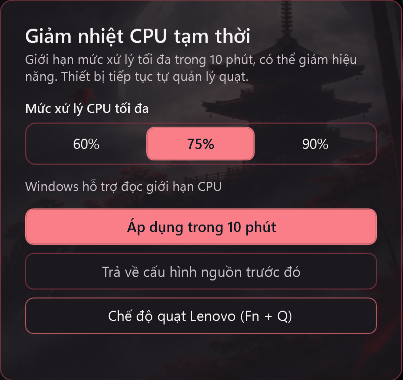
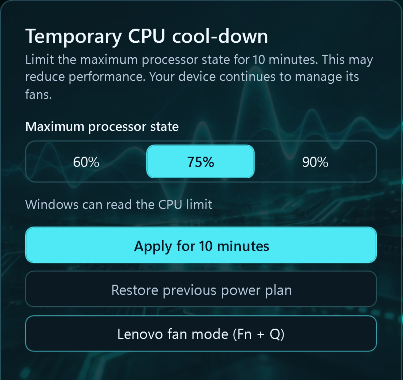
PERF 0.3.3: English UI and README screenshots

diff --git a/README.md b/README.md
@@ -1,7 +1,7 @@
-# PERF 0.3.2
+# PERF 0.3.3
 
 <p align="center">
-  <img src="docs/images/hero.jpg" alt="PERF with its five themes: PERF Classic, Galaxy, Astronaut, Ninja and Racing" width="100%">
+  <img src="docs/images/hero.jpg" alt="PERF with its five themes: PERF Classic, Cosmos, Astronaut, Shinobi and Night Racer" width="100%">
 </p>
 
 <p align="center">
@@ -13,6 +13,7 @@
 <p align="center">
   <a href="https://github.com/tuanphat67/PERF/releases/latest"><img src="https://img.shields.io/github/v/release/tuanphat67/PERF?label=Download&style=for-the-badge&color=22c3e6" alt="Download the latest release"></a>
   <img src="https://img.shields.io/badge/Windows-10%20%7C%2011%20x64-0b0f14?style=for-the-badge&logo=windows" alt="Windows 10 and 11, x64">
+  <img src="https://img.shields.io/badge/Language-English%20%7C%20Ti%E1%BA%BFng%20Vi%E1%BB%87t-0b0f14?style=for-the-badge" alt="English and Vietnamese">
   <img src="https://img.shields.io/badge/Price-Free-8a5cf6?style=for-the-badge" alt="Free">
 </p>
 
@@ -23,7 +24,7 @@
   &nbsp;·&nbsp; <a href="#faq">FAQ</a>
 </p>
 
-> **Interface language:** the app UI is currently in Vietnamese. Menu names below are given in English with the on-screen Vietnamese label in brackets.
+> **English and Vietnamese:** PERF picks English or Vietnamese from your Windows display language on first launch. Switch any time under **Settings → Appearance → Language**.
 
 ---
 
@@ -33,14 +34,15 @@
 |---|---|
 | 📊 **Everything at a glance** | CPU, GPU, RAM, storage, fans and pumps, battery and network on one dashboard, with a 60-second chart and per-moment values on hover. |
 | 🪟 **Always-on-top mini overlay** | Sits in a screen corner and is click-through, so it never gets in the way of games or work. |
-| 🎨 **Five illustrated themes** | PERF Classic, Galaxy, Astronaut, Ninja and Racing, each with its own artwork, icon and colour palette. |
+| 🎨 **Five illustrated themes** | PERF Classic, Cosmos, Astronaut, Shinobi and Night Racer, each with its own artwork, icon and colour palette. |
+| 🌐 **English and Vietnamese** | Switch the whole interface, overlay and tray menu instantly, no restart needed. |
 | 🌡 **Measure and cool down** | Record temperatures for 30 seconds under your real workload. Cap the CPU at 60, 75 or 90% for 10 minutes, then it restores itself. |
 | 🔒 **Honest and safe** | No made-up numbers: sensors that report nothing show *Not available*. PERF sends no data anywhere and never drives your fans. |
 | 🪶 **Lightweight** | Under 1% CPU while running in the background on our test laptop. Minimises to the system tray. |
 
 ## Five themes
 
-Switch under **Settings → Appearance** (*Cài đặt → Giao diện*), preview instantly, then click **Save settings** (*Lưu cài đặt*).
+Switch under **Settings → Appearance**, preview instantly, then click **Save settings**. The language selector lives in the same panel.
 
 <p align="center">
   <img src="docs/images/theme-picker.png" alt="Theme picker in Settings" width="820">
@@ -48,12 +50,12 @@ Switch under **Settings → Appearance** (*Cài đặt → Giao diện*), previe
 
 <table>
   <tr>
-    <td width="50%"><img src="docs/images/theme-galaxy.jpg" alt="Galaxy theme"><br><b>🪐 Galaxy</b> (<i>Vũ trụ</i>): a ringed gas giant, violet nebula and a deep star field.</td>
-    <td width="50%"><img src="docs/images/theme-astronaut.jpg" alt="Astronaut theme"><br><b>👨🚀 Astronaut</b> (<i>Phi hành gia</i>): Earth's night-side horizon seen from a space station.</td>
+    <td width="50%"><img src="docs/images/theme-cosmos.jpg" alt="Cosmos theme"><br><b>🪐 Cosmos</b>: a ringed gas giant, violet nebula and a deep star field.</td>
+    <td width="50%"><img src="docs/images/theme-astronaut.jpg" alt="Astronaut theme"><br><b>👨🚀 Astronaut</b>: Earth's night-side horizon seen from a space station.</td>
   </tr>
   <tr>
-    <td><img src="docs/images/theme-ninja.jpg" alt="Ninja theme"><br><b>🥷 Ninja</b> (<i>Nhẫn giả</i>): a full moon over a misty pagoda and bamboo.</td>
-    <td><img src="docs/images/theme-racing.jpg" alt="Racing theme"><br><b>🏎 Racing</b> (<i>Xe đua</i>): a rain-soaked night circuit streaked with tail lights.</td>
+    <td><img src="docs/images/theme-shinobi.jpg" alt="Shinobi theme"><br><b>🥷 Shinobi</b>: a full moon over a misty pagoda and bamboo.</td>
+    <td><img src="docs/images/theme-night-racer.jpg" alt="Night Racer theme"><br><b>🏎 Night Racer</b>: a rain-soaked night circuit streaked with tail lights.</td>
   </tr>
   <tr>
     <td><img src="docs/images/theme-classic.jpg" alt="PERF Classic theme"><br><b>📈 PERF Classic</b>: glowing circuit traces and a cyan oscilloscope wave.</td>
@@ -65,7 +67,7 @@ Switch under **Settings → Appearance** (*Cài đặt → Giao diện*), previe
 
 ## Mini overlay
 
-A small always-on-top window in the corner of your screen. By default it shows CPU, GPU and RAM usage plus temperatures when available. Choose a **list**, **strip** or **load bar** layout and adjust position, size, background opacity and one to three metrics under **Settings → Mini overlay** (*Cửa sổ theo dõi nhỏ*). **Use theme overlay preset** (*Dùng mẫu cửa sổ nhỏ của chủ đề*) fills in a layout that matches the current theme.
+A small always-on-top window in the corner of your screen. By default it shows CPU, GPU and RAM usage plus temperatures when available. Choose **Compact rows**, **Horizontal strip** or **Usage bars** and adjust position, size, background opacity and one to three metrics under **Settings → Mini overlay**. **Use theme overlay preset** fills in a layout that matches the current theme.
 
 <p align="center">
   <img src="docs/images/overlays.png" alt="The three overlay layouts in all five themes" width="100%">
@@ -77,8 +79,8 @@ A small always-on-top window in the corner of your screen. By default it shows C
 
 - **Temperature check:** start a measurement while a game or heavy task is running. PERF records the starting, current and peak temperature over 30 seconds. It never generates load on its own.
 - **Temporary CPU cool-down:** cap the maximum processor state at **60%, 75% or 90%** for 10 minutes, on both AC and battery power.
-- **Always reverted:** PERF edits a copy of your power plan and restores the original when time runs out or when you quit, even after a crash or power loss. **Restore previous power plan** (*Trả về cấu hình nguồn trước đó*) undoes it immediately.
-- **Fans and pumps:** the **Fans and pumps** (*Quạt và bơm*) card shows every RPM and PWM channel your machine reports. Fans stay under firmware or vendor-software control. On Lenovo laptops, PERF also reads fan speed through Lenovo WMI.
+- **Always reverted:** PERF edits a copy of your power plan and restores the original when time runs out or when you quit, even after a crash or power loss. **Restore previous power plan** undoes it immediately.
+- **Fans and pumps:** the **Fans and pumps** card shows every RPM and PWM channel your machine reports. Fans stay under firmware or vendor-software control. On Lenovo laptops, PERF also reads fan speed through Lenovo WMI.
 
 <br clear="right">
 
@@ -88,9 +90,9 @@ A small always-on-top window in the corner of your screen. By default it shows C
 2. Run the installer. The .NET runtime is bundled, so nothing else is needed.
 3. Launch **PERF** from the Start menu. The main window and the mini overlay appear right away.
 
-**Advanced sensors (recommended):** the installer includes the signed **PawnIO** driver, which unlocks extra CPU temperature and power readings. Accept the UAC prompt when asked. If you skipped it, open **Settings → Sensor sources** (*Cài đặt → Nguồn cảm biến*), click **Install bundled PawnIO** (*Cài PawnIO đi kèm*), then quit and reopen PERF.
+**Advanced sensors (recommended):** the installer includes the signed **PawnIO** driver, which unlocks extra CPU temperature and power readings. Accept the UAC prompt when asked. If you skipped it, open **Settings → Sensor sources**, click **Install bundled PawnIO**, then quit and reopen PERF.
 
-**Upgrade:** quit PERF (right-click the tray icon → **Exit** / *Thoát*) and run the new installer. Your settings are kept.
+**Upgrade:** quit PERF (right-click the tray icon → **Exit**) and run the new installer. Your settings are kept.
 
 **Uninstall:** quit PERF, then remove it from **Settings → Apps → Installed apps** in Windows.
 
@@ -102,9 +104,9 @@ A small always-on-top window in the corner of your screen. By default it shows C
 ## Tips
 
 - Click **X** to send PERF to the system tray; the overlay keeps updating. Double-click the tray icon to bring it back.
-- Click the **Fans and pumps** card to see every RPM and PWM channel; **Reset min/max** (*Đặt lại min/max*) starts the session statistics over.
+- Click the **Fans and pumps** card to see every RPM and PWM channel; **Reset min/max** starts the session statistics over.
 - On the 60-second chart, pick a metric below it and hover to read any moment.
-- **Settings → Restore defaults** (*Khôi phục mặc định*) resets every option and returns your power plan to how it was.
+- **Settings → Restore defaults** resets every option and returns your power plan to how it was.
 
 ## FAQ
 
@@ -115,7 +117,7 @@ Usually because the machine only has integrated graphics (for example Intel UHD 
 </details>
 
 <details>
-<summary><b>Why do some tiles say "Not available" (<i>Chưa đọc được</i>)?</b></summary>
+<summary><b>Why do some tiles say "Not available"?</b></summary>
 
 Your drivers or firmware don't expose that reading. Installing **PawnIO** and allowing advanced mode unlocks more CPU temperature and power sensors. Some GPU, SSD and fan readings still depend on the device.
 </details>
